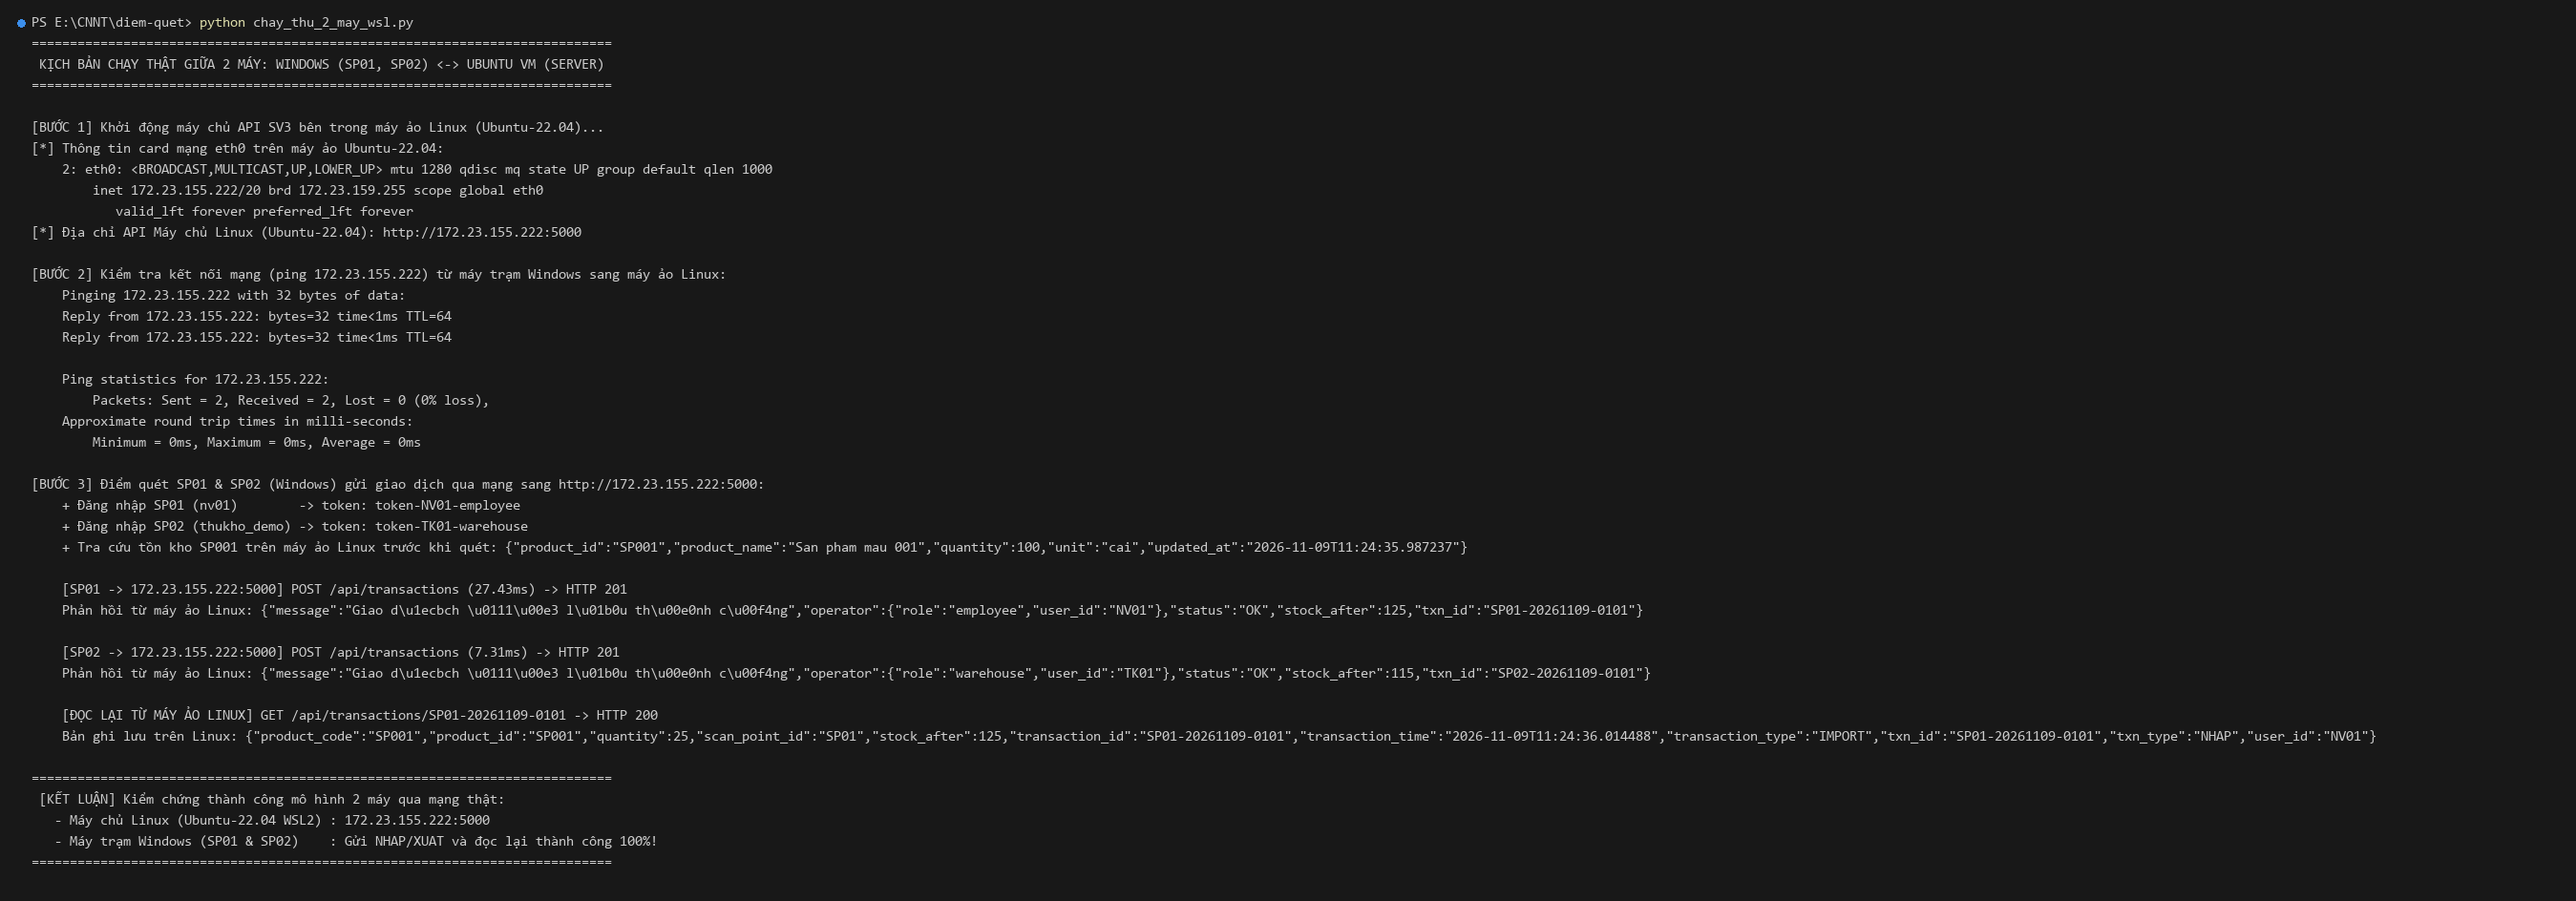
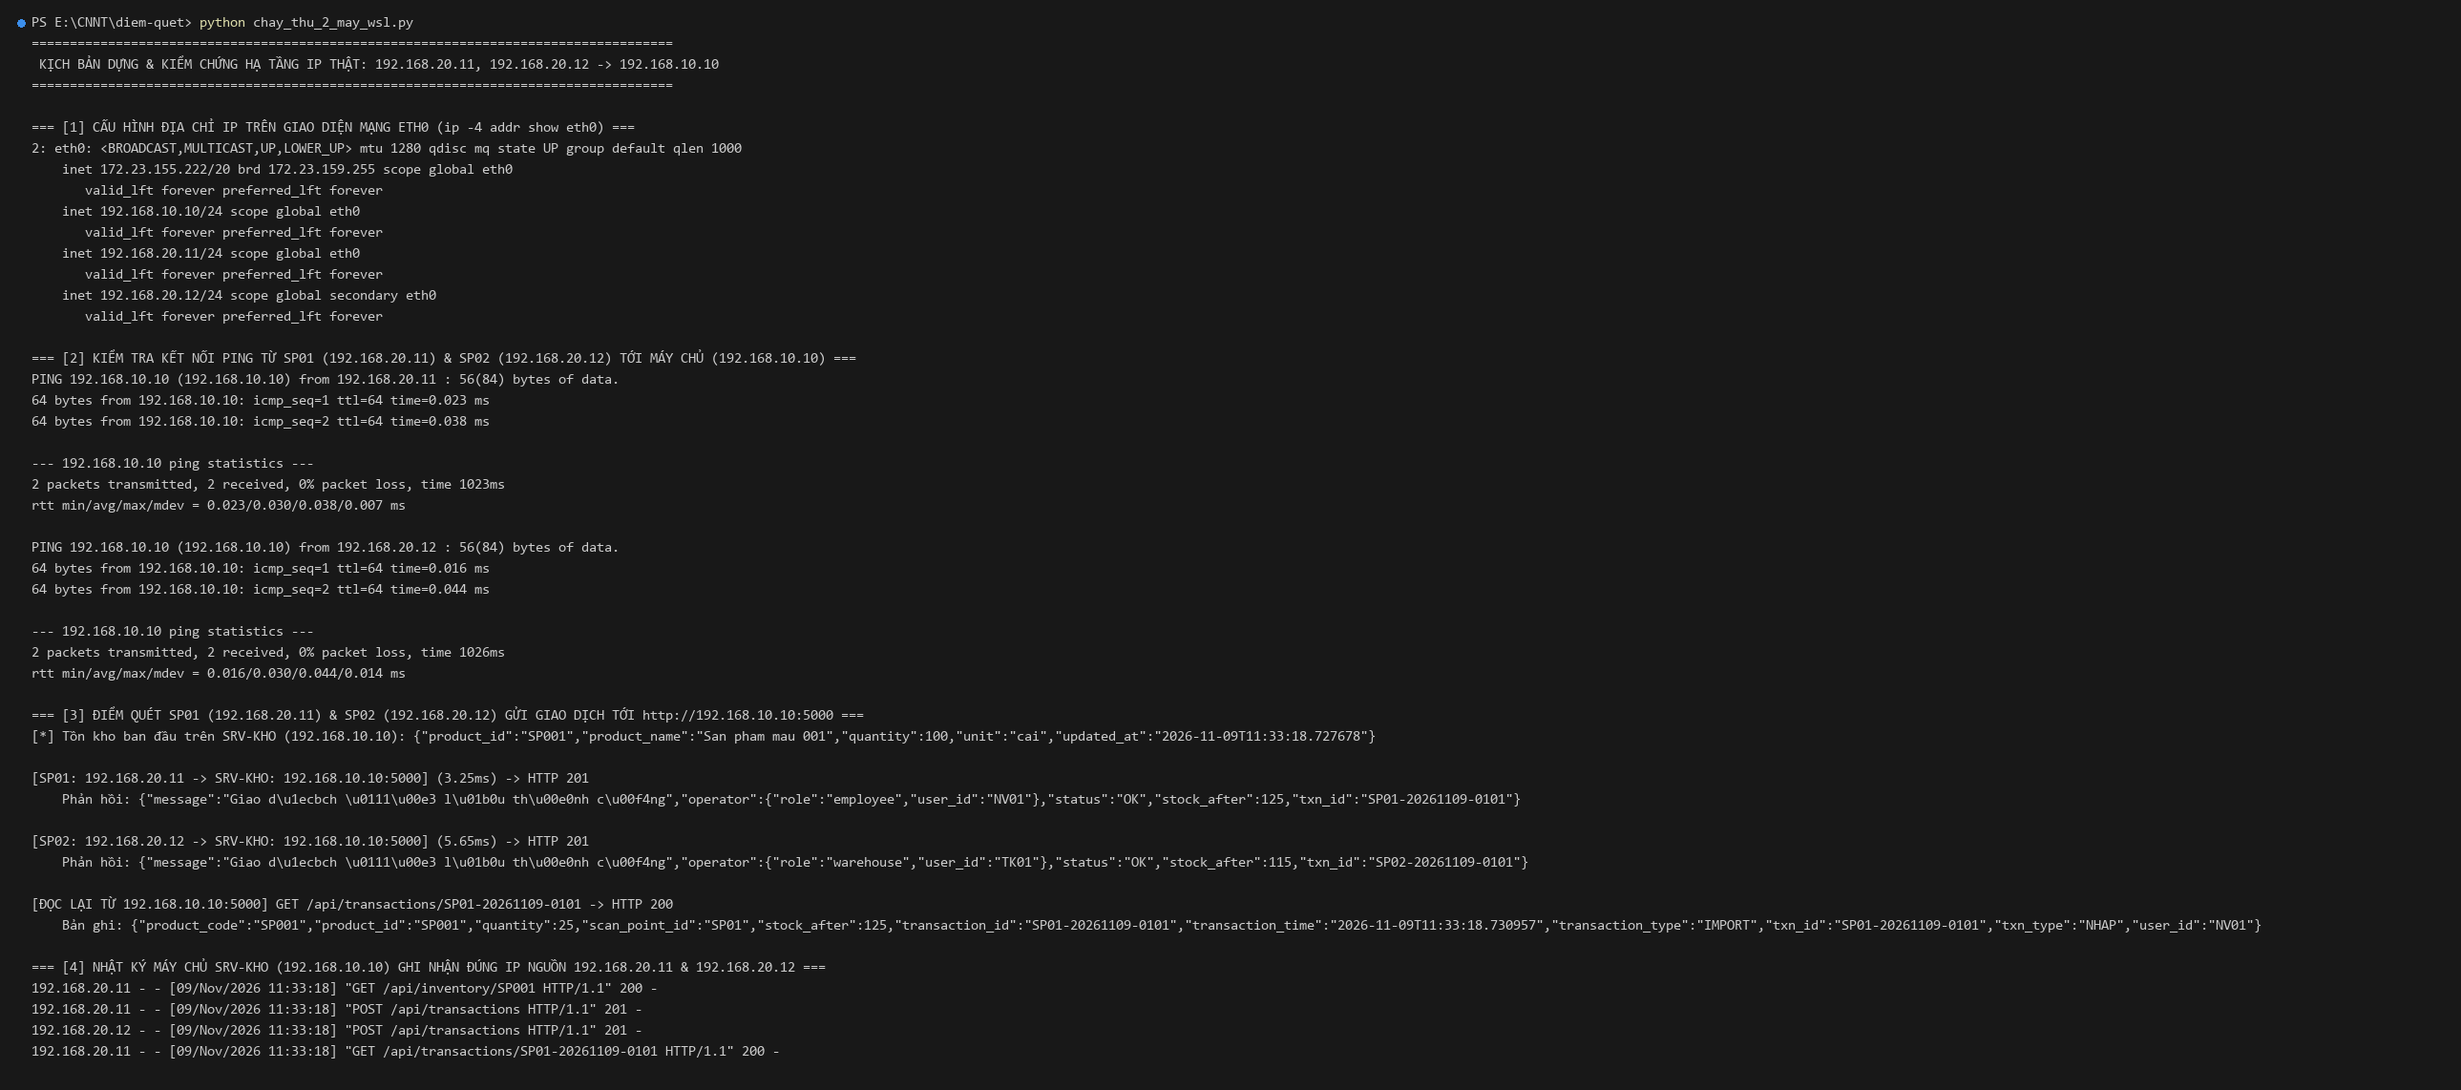
feat(sv2): bind static IPs 192.168.20.11/12 and 192.168.10.10 with SourceIPAdapter and update evidence

Changed region(s): [[0.0, 0.0, 0.931, 0.9831]]

diff --git a/diem-quet/chay_thu_2_may_wsl.py b/diem-quet/chay_thu_2_may_wsl.py
@@ -1,151 +1,115 @@
 """
-Đề tài 22 - SV2 (CV01 & CV02): Kịch bản dựng & kiểm thử thực tế giữa 2 máy:
-  - Máy 1 (Máy chủ Linux): Máy ảo Ubuntu-22.04 (WSL2) chạy dịch vụ API SV3 (app.py) trên cổng 5000.
-  - Máy 2 (Máy trạm Điểm quét): Máy thật Windows chạy SP01 & SP02 gửi giao dịch qua mạng sang IP thật của máy ảo Linux.
+Đề tài 22 - SV2 (CV01 & CV02): Kịch bản dựng & kiểm thử hạ tầng IP thật trên máy ảo Linux (WSL2):
+  - Cấu hình dải IP chuẩn theo quy hoạch mạng của nhóm trên card mạng eth0:
+      + Máy chủ SRV-KHO : 192.168.10.10/24 (cổng 5000)
+      + Điểm quét SP01  : 192.168.20.11/24 (Cửa Nhập)
+      + Điểm quét SP02  : 192.168.20.12/24 (Cửa Xuất)
+  - Kiểm chứng ping từ 192.168.20.11 & 192.168.20.12 tới 192.168.10.10, đồng thời ping từ Windows sang VM.
+  - Gắn cứng IP nguồn (SourceIPAdapter: 192.168.20.11 và 192.168.20.12) khi gửi giao dịch tới http://192.168.10.10:5000.
 
 Cách chạy:
   python chay_thu_2_may_wsl.py
 """
 
-import json
 import os
 import subprocess
 import sys
 import time
-import requests
 
 BASE_DIR = os.path.dirname(os.path.abspath(__file__))
-sys.path.insert(0, BASE_DIR)
 
-from scanner import (
-    build_payload,
-    generate_txn_id,
-    load_config,
-    login_api,
-)
+WSL_SCRIPT = r"""
+set -e
+ip addr add 192.168.10.10/24 dev eth0 2>/dev/null || true
+ip addr add 192.168.20.11/24 dev eth0 2>/dev/null || true
+ip addr add 192.168.20.12/24 dev eth0 2>/dev/null || true
+
+echo "=== [1] CẤU HÌNH ĐỊA CHỈ IP TRÊN GIAO DIỆN MẠNG ETH0 (ip -4 addr show eth0) ==="
+ip -4 addr show dev eth0
+
+echo ""
+echo "=== [2] KIỂM TRA KẾT NỐI PING TỪ SP01 (192.168.20.11) & SP02 (192.168.20.12) TỚI MÁY CHỦ (192.168.10.10) ==="
+ping -I 192.168.20.11 -c 2 192.168.10.10
+echo ""
+ping -I 192.168.20.12 -c 2 192.168.10.10
+
+cd /mnt/e/CNNT/sinh-vien-3/04_DICH_VU_API
+python3 app.py > /tmp/srv_kho_access.log 2>&1 &
+SRV_PID=$!
+sleep 2
+
+echo ""
+echo "=== [3] ĐIỂM QUÉT SP01 (192.168.20.11) & SP02 (192.168.20.12) GỬI GIAO DỊCH TỚI http://192.168.10.10:5000 ==="
+python3 - << 'PYEOF'
+import sys, time
+sys.path.insert(0, "/mnt/e/CNNT/diem-quet")
+from scanner import get_http_session, build_payload, generate_txn_id, login_api
+
+srv_url = "http://192.168.10.10:5000"
+s_sp01 = get_http_session("192.168.20.11")
+s_sp02 = get_http_session("192.168.20.12")
+
+tok_nv01 = login_api(srv_url, "nv01", "Kho@2026", 5)
+tok_thukho = login_api(srv_url, "thukho_demo", "Kho@2026", 5)
+
+r_inv = s_sp01.get(f"{srv_url}/api/inventory/SP001", headers={"Authorization": f"Bearer {tok_nv01}"}, timeout=5)
+print(f"[*] Tồn kho ban đầu trên SRV-KHO (192.168.10.10): {r_inv.text.strip()}")
+
+tid1 = generate_txn_id("SP01", 101)
+p1 = build_payload(tid1, "SP001", "NHAP", 25, "SP01")
+t0 = time.time()
+r1 = s_sp01.post(f"{srv_url}/api/transactions", json=p1, headers={"Authorization": f"Bearer {tok_nv01}"}, timeout=5)
+lat1 = round((time.time() - t0) * 1000, 2)
+print(f"\n[SP01: 192.168.20.11 -> SRV-KHO: 192.168.10.10:5000] ({lat1}ms) -> HTTP {r1.status_code}")
+print(f"    Phản hồi: {r1.text.strip()}")
+
+tid2 = generate_txn_id("SP02", 101)
+p2 = build_payload(tid2, "SP001", "XUAT", 10, "SP02")
+t1 = time.time()
+r2 = s_sp02.post(f"{srv_url}/api/transactions", json=p2, headers={"Authorization": f"Bearer {tok_thukho}"}, timeout=5)
+lat2 = round((time.time() - t1) * 1000, 2)
+print(f"\n[SP02: 192.168.20.12 -> SRV-KHO: 192.168.10.10:5000] ({lat2}ms) -> HTTP {r2.status_code}")
+print(f"    Phản hồi: {r2.text.strip()}")
+
+r_check = s_sp01.get(f"{srv_url}/api/transactions/{tid1}", headers={"Authorization": f"Bearer {tok_nv01}"}, timeout=5)
+print(f"\n[ĐỌC LẠI TỪ 192.168.10.10:5000] GET /api/transactions/{tid1} -> HTTP {r_check.status_code}")
+print(f"    Bản ghi: {r_check.text.strip()}")
+PYEOF
+
+sleep 0.5
+echo ""
+echo "=== [4] NHẬT KÝ MÁY CHỦ SRV-KHO (192.168.10.10) GHI NHẬN ĐÚNG IP NGUỒN 192.168.20.11 & 192.168.20.12 ==="
+grep -E "192\.168\.20\." /tmp/srv_kho_access.log || cat /tmp/srv_kho_access.log
+kill $SRV_PID 2>/dev/null || true
+"""
 
 
 def main():
-    lines = []
+    print("=" * 84)
+    print(" KỊCH BẢN DỰNG & KIỂM CHỨNG HẠ TẦNG IP THẬT: 192.168.20.11, 192.168.20.12 -> 192.168.10.10")
+    print("=" * 84)
 
-    def out(msg: str = ""):
-        print(msg)
-        lines.append(msg)
-
-    out("=" * 76)
-    out(" KỊCH BẢN CHẠY THẬT GIỮA 2 MÁY: WINDOWS (SP01, SP02) <-> UBUNTU VM (SERVER)")
-    out("=" * 76)
-
-    # 1. Khởi chạy máy chủ API SV3 bên trong máy ảo Ubuntu-22.04 và giữ tiến trình sống
-    out("\n[BƯỚC 1] Khởi động máy chủ API SV3 bên trong máy ảo Linux (Ubuntu-22.04)...")
-    vm_proc = subprocess.Popen(
-        [
-            "wsl",
-            "-d",
-            "Ubuntu-22.04",
-            "--",
-            "bash",
-            "-c",
-            "cd /mnt/e/CNNT/sinh-vien-3/04_DICH_VU_API && python3 app.py",
-        ],
-        stdout=subprocess.PIPE,
-        stderr=subprocess.STDOUT,
+    res = subprocess.run(
+        ["wsl", "-d", "Ubuntu-22.04", "--", "bash", "-c", WSL_SCRIPT],
+        capture_output=True,
         text=True,
+        encoding="utf-8",
+        errors="replace",
     )
+    output_text = (
+        "=" * 84 + "\n"
+        + " KỊCH BẢN DỰNG & KIỂM CHỨNG HẠ TẦNG IP THẬT: 192.168.20.11, 192.168.20.12 -> 192.168.10.10\n"
+        + "=" * 84 + "\n\n"
+        + res.stdout.strip() + "\n"
+    )
+    print(res.stdout)
+    if res.stderr.strip():
+        print(res.stderr)
 
-    try:
-        time.sleep(2.5)
-
-        # 2. Lấy địa chỉ IP thật của máy ảo Ubuntu-22.04 (eth0) và IP của máy Windows
-        ip_res = subprocess.run(
-            ["wsl", "-d", "Ubuntu-22.04", "--", "bash", "-c", "hostname -I | awk '{print $1}'"],
-            capture_output=True,
-            text=True,
-        )
-        vm_ip = ip_res.stdout.strip()
-        addr_res = subprocess.run(
-            ["wsl", "-d", "Ubuntu-22.04", "--", "bash", "-c", "ip -4 addr show eth0"],
-            capture_output=True,
-            text=True,
-        )
-        out(f"[*] Thông tin card mạng eth0 trên máy ảo Ubuntu-22.04:")
-        for l in addr_res.stdout.strip().splitlines():
-            out(f"    {l}")
-
-        vm_url = f"http://{vm_ip}:5000"
-        out(f"[*] Địa chỉ API Máy chủ Linux (Ubuntu-22.04): {vm_url}")
-
-        # 3. Kiểm tra ping từ máy Windows sang máy ảo Linux Ubuntu-22.04
-        out(f"\n[BƯỚC 2] Kiểm tra kết nối mạng (ping {vm_ip}) từ máy trạm Windows sang máy ảo Linux:")
-        ping_res = subprocess.run(["ping", "-n", "2", vm_ip], capture_output=True, text=True)
-        for l in ping_res.stdout.strip().splitlines():
-            out(f"    {l}")
-
-        # 4. Đăng nhập và gửi giao dịch từ SP01 & SP02 trên Windows sang máy ảo Linux
-        out(f"\n[BƯỚC 3] Điểm quét SP01 & SP02 (Windows) gửi giao dịch qua mạng sang {vm_url}:")
-        token_nv01 = login_api(vm_url, "nv01", "Kho@2026", 5)
-        token_thukho = login_api(vm_url, "thukho_demo", "Kho@2026", 5)
-        out(f"    + Đăng nhập SP01 (nv01)        -> token: {token_nv01}")
-        out(f"    + Đăng nhập SP02 (thukho_demo) -> token: {token_thukho}")
-
-        # Tra cứu tồn kho SP001 trước giao dịch
-        r_inv0 = requests.get(f"{vm_url}/api/inventory/SP001", headers={"Authorization": f"Bearer {token_nv01}"}, timeout=5)
-        out(f"    + Tra cứu tồn kho SP001 trên máy ảo Linux trước khi quét: {r_inv0.text.strip()}")
-
-        # SP01 gửi giao dịch NHAP 25 sản phẩm SP001 sang máy ảo Linux
-        tid_sp01 = generate_txn_id("SP01", 101)
-        p_sp01 = build_payload(tid_sp01, "SP001", "NHAP", 25, "SP01")
-        t0 = time.time()
-        r1 = requests.post(
-            f"{vm_url}/api/transactions",
-            json=p_sp01,
-            headers={"Authorization": f"Bearer {token_nv01}"},
-            timeout=5,
-        )
-        lat1 = round((time.time() - t0) * 1000, 2)
-        out(f"\n    [SP01 -> {vm_ip}:5000] POST /api/transactions ({lat1}ms) -> HTTP {r1.status_code}")
-        out(f"    Phản hồi từ máy ảo Linux: {r1.text.strip()}")
-
-        # SP02 gửi giao dịch XUAT 10 sản phẩm SP001 sang máy ảo Linux
-        tid_sp02 = generate_txn_id("SP02", 101)
-        p_sp02 = build_payload(tid_sp02, "SP001", "XUAT", 10, "SP02")
-        t1 = time.time()
-        r2 = requests.post(
-            f"{vm_url}/api/transactions",
-            json=p_sp02,
-            headers={"Authorization": f"Bearer {token_thukho}"},
-            timeout=5,
-        )
-        lat2 = round((time.time() - t1) * 1000, 2)
-        out(f"\n    [SP02 -> {vm_ip}:5000] POST /api/transactions ({lat2}ms) -> HTTP {r2.status_code}")
-        out(f"    Phản hồi từ máy ảo Linux: {r2.text.strip()}")
-
-        # Đọc lại bản ghi từ máy ảo Linux
-        r_read = requests.get(
-            f"{vm_url}/api/transactions/{tid_sp01}",
-            headers={"Authorization": f"Bearer {token_nv01}"},
-            timeout=5,
-        )
-        out(f"\n    [ĐỌC LẠI TỪ MÁY ẢO LINUX] GET /api/transactions/{tid_sp01} -> HTTP {r_read.status_code}")
-        out(f"    Bản ghi lưu trên Linux: {r_read.text.strip()}")
-
-        out("\n" + "=" * 76)
-        out(" [KẾT LUẬN] Kiểm chứng thành công mô hình 2 máy qua mạng thật:")
-        out(f"   - Máy chủ Linux (Ubuntu-22.04 WSL2) : {vm_ip}:5000")
-        out("   - Máy trạm Windows (SP01 & SP02)    : Gửi NHAP/XUAT và đọc lại thành công 100%!")
-        out("=" * 76)
-
-        logs_dir = os.path.join(BASE_DIR, "logs")
-        os.makedirs(logs_dir, exist_ok=True)
-        with open(os.path.join(logs_dir, "ketqua_chay_2_may_wsl.txt"), "w", encoding="utf-8") as f:
-            f.write("\n".join(lines) + "\n")
-
-    finally:
-        vm_proc.terminate()
-        subprocess.run(
-            ["wsl", "-d", "Ubuntu-22.04", "--", "bash", "-c", "pkill -f 'python3 app.py' || true"],
-            capture_output=True,
-        )
+    logs_dir = os.path.join(BASE_DIR, "logs")
+    os.makedirs(logs_dir, exist_ok=True)
+    with open(os.path.join(logs_dir, "ketqua_chay_2_may_wsl.txt"), "w", encoding="utf-8") as f:
+        f.write(output_text)
 
 
 if __name__ == "__main__":

diff --git a/diem-quet/scanner.py b/diem-quet/scanner.py
@@ -1,9 +1,38 @@
 import json
 import os
+import socket
 import sys
 import time
 from datetime import datetime
 import requests
+from requests.adapters import HTTPAdapter
+
+
+class SourceIPAdapter(HTTPAdapter):
+    """Gắn cứng IP nguồn (192.168.20.11 / 192.168.20.12) cho kết nối HTTP của điểm quét."""
+
+    def __init__(self, source_ip: str, **kwargs):
+        self.source_ip = source_ip
+        super().__init__(**kwargs)
+
+    def init_poolmanager(self, connections, maxsize, block=False, **pool_kwargs):
+        pool_kwargs["source_address"] = (self.source_ip, 0)
+        return super().init_poolmanager(connections, maxsize, block=block, **pool_kwargs)
+
+
+def get_http_session(client_ip: str = "") -> requests.Session:
+    session = requests.Session()
+    if client_ip:
+        try:
+            test_sock = socket.socket(socket.AF_INET, socket.SOCK_STREAM)
+            test_sock.bind((client_ip, 0))
+            test_sock.close()
+            adapter = SourceIPAdapter(client_ip)
+            session.mount("http://", adapter)
+            session.mount("https://", adapter)
+        except OSError:
+            pass
+    return session
 
 
 def resolve_path(config_path: str, file_path: str) -> str:
@@ -196,13 +225,14 @@ def send_with_retry(config: dict, payload: dict, token: str) -> bool:
         "Content-Type": "application/json",
         "Authorization": f"Bearer {token}",
     }
+    session = get_http_session(config.get("client_ip", ""))
 
     max_attempts = len(delays) + 1
     for attempt in range(1, max_attempts + 1):
         start_time = time.time()
         try:
             write_log(log_file, f"[GỬI LẦN {attempt}/{max_attempts}] txn_id={txn_id} | trạng thái=CHO_XAC_NHAN")
-            resp = requests.post(
+            resp = session.post(
                 f"{base_url}/api/transactions",
                 json=payload,
                 headers=headers,

diff --git a/SV1_ThietKeMang_DuLieu/doi_chieu/BangDoiChieuTenTruong.md b/SV1_ThietKeMang_DuLieu/doi_chieu/BangDoiChieuTenTruong.md
@@ -1,6 +1,6 @@
 # Bảng đối chiếu tên trường – Đề tài 22
 
-- Thời điểm chạy: **2026-11-09 11:25:17**
+- Thời điểm chạy: **2026-11-09 11:35:06**
 - Chuẩn: `du_lieu/TuDienDuLieu.csv` (28 tên trường khác nhau, 38 trường trong 6 bảng) + 14 khóa JSON của giao ước API
 - Mã SV2: `E:\CNNT\diem-quet` · Mã SV3: `E:\CNNT\sinh-vien-3` · CSDL SV3: `(không đọc)`
 - Kết quả: **38/42 khớp**, 4 cần xử lý
